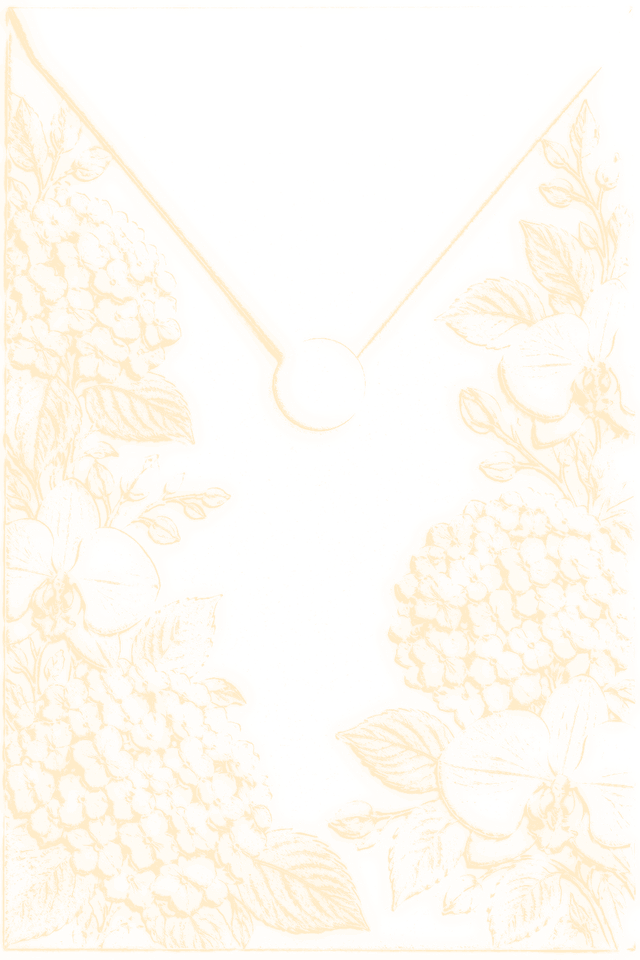
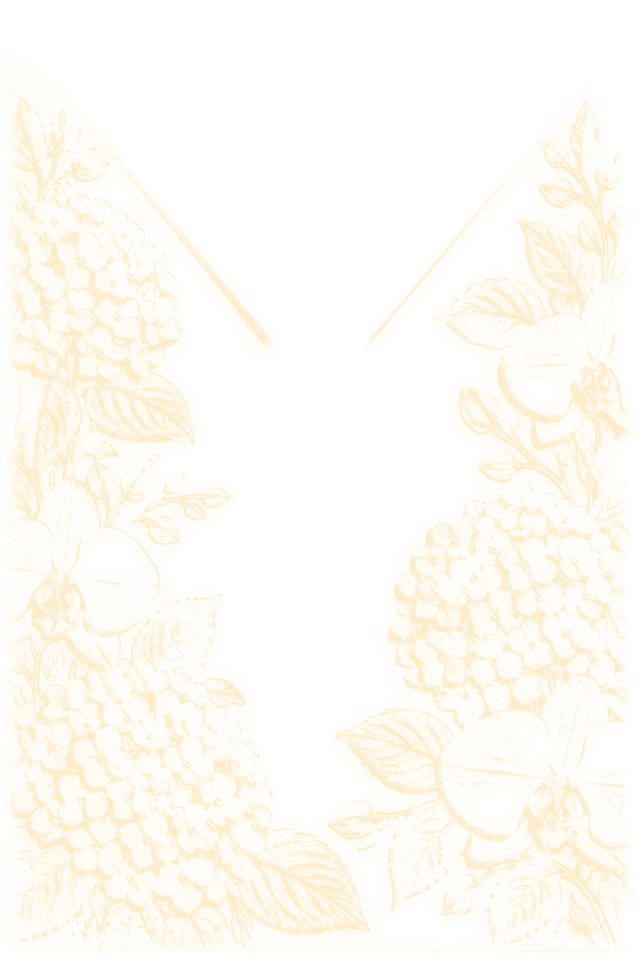
Light only on the flowers; lighter envelope interior
Claude-Session: https://claude.ai/code/session_01CXqzzv5FyjQBpMdh7Fjzgj

diff --git a/index.html b/index.html
@@ -76,8 +76,8 @@ button{font:inherit;color:inherit}
 .env::before{content:"";position:absolute;left:4%;right:4%;bottom:-3%;height:10%;border-radius:50%;background:radial-gradient(closest-side,rgba(90,60,60,.35),rgba(90,60,60,.1) 60%,transparent);filter:blur(10px);transform:translateZ(-30px)}
 
 /* inside, revealed as panels open */
-.pocket{position:absolute;inset:0;border-radius:4px;background:#e6d7d3;overflow:hidden;transform:translateZ(-2.5px)}
-.pocket::before{content:"";position:absolute;inset:0;background:linear-gradient(180deg,#dcc9c6,#eadcd8 50%,#e3d3cf)}
+.pocket{position:absolute;inset:0;border-radius:4px;background:#f3eae4;overflow:hidden;transform:translateZ(-2.5px)}
+.pocket::before{content:"";position:absolute;inset:0;background:linear-gradient(180deg,#efe5df,#f4ece6 50%,#efe5df)}
 .peekwrap{position:absolute;left:-50%;right:-50%;top:-1200px;bottom:0;overflow:hidden;transform:translateZ(0.5px);pointer-events:none;will-change:transform}
 .cardpeek *{pointer-events:none}
 .scene:not(.open) .cardpeek *{animation-play-state:paused}
